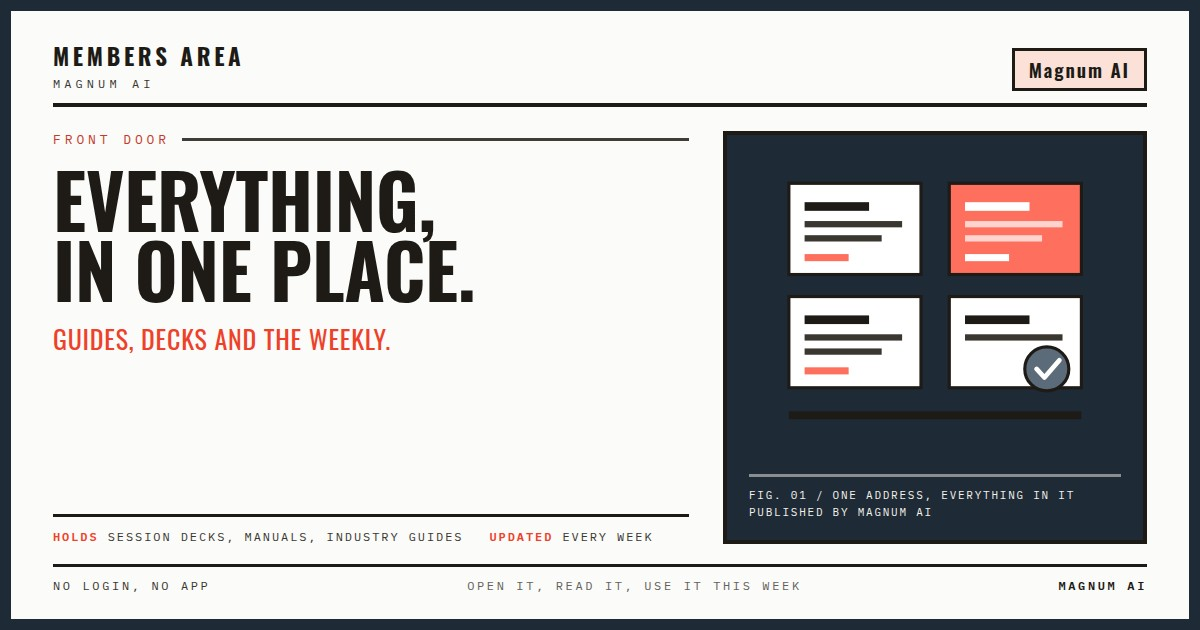
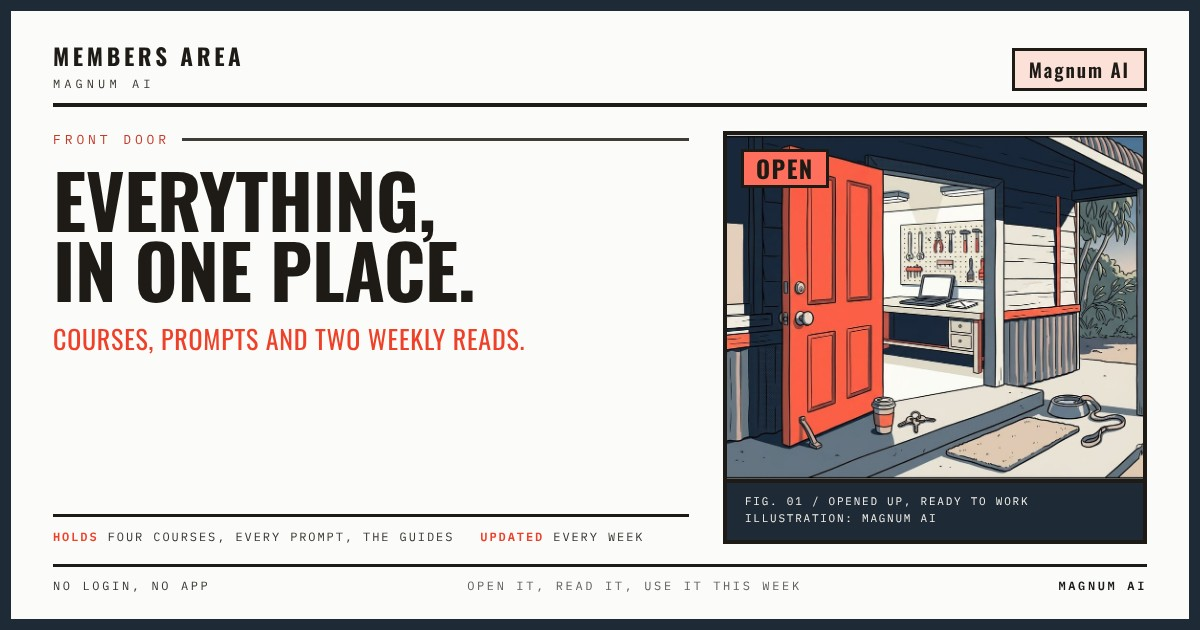
Members area share card carries a still-life cartoon; Field Note cards alternate person and still life
Claude-Session: https://claude.ai/code/session_01F8XX6o5R5CWfwEwwc3uDpR

diff --git a/members-area-thumbnail.html b/members-area-thumbnail.html
@@ -73,6 +73,10 @@ h1{font-family:'Oswald','Arial Narrow','Liberation Sans Narrow',sans-serif;font-
 .tick::after{content:"";width:42%;height:22%;border-left:6px solid var(--paper);border-bottom:6px solid var(--paper);transform:rotate(-45deg) translate(6%,-18%)}
 .plate-cap{font-family:'IBM Plex Mono',monospace;font-size:11px;letter-spacing:.16em;text-transform:uppercase;color:#F4F1EA;border-top:3px solid rgba(244,241,234,.5);padding-top:10px;margin-top:14px;line-height:1.6}
 
+.plate.pic{padding:0;position:relative;justify-content:flex-start}
+.plate.pic .ill{display:block;width:100%;flex:1;min-height:0;object-fit:cover;object-position:center;transform:scale(1.04)}
+.plate.pic .plate-cap{position:relative;z-index:1;background:var(--navy);margin-top:0;padding:10px 18px 12px;border-top:4px solid var(--ink)}
+.numtag{position:absolute;top:14px;left:14px;z-index:1;font-family:'Oswald','Arial Narrow','Liberation Sans Narrow',sans-serif;font-weight:700;font-size:24px;letter-spacing:.06em;text-transform:uppercase;line-height:1;background:var(--coral-bright);color:var(--ink);border:3px solid var(--ink);padding:4px 12px 5px}
 .foot{border-top:3px solid var(--ink);margin-top:20px;padding-top:11px;display:flex;justify-content:space-between;align-items:center;font-family:'IBM Plex Mono',monospace;font-size:12px;letter-spacing:.22em;text-transform:uppercase;color:var(--charcoal)}
 .foot .mid{color:var(--taupe)}
 .foot .pg{color:var(--ink);font-weight:600}
@@ -95,40 +99,17 @@ h1{font-family:'Oswald','Arial Narrow','Liberation Sans Narrow',sans-serif;font-
       <!-- EDIT 3 · theme, headline, kicker -->
       <div class="eyebrow">Front door</div>
       <h1>Everything,<br>in one place.</h1>
-      <div class="kicker">Guides, decks and the weekly.</div>
+      <div class="kicker">Courses, prompts and two weekly reads.</div>
       <div class="slug">
-        <span><b>Holds</b> session decks, manuals, industry guides</span>
+        <span><b>Holds</b> four courses, every prompt, the guides</span>
         <span><b>Updated</b> every week</span>
       </div>
     </div>
 
-    <div class="plate">
-      <div class="doc-wrap">
-<svg viewBox="0 0 420 380" preserveAspectRatio="xMidYMid meet" aria-hidden="true">
-  <rect x="24" y="36" width="168" height="116" fill="#FFFFFF" stroke="#1E1B17" stroke-width="4"/>
-  <rect x="44" y="60" width="82" height="11" fill="#1E1B17"/>
-  <rect x="44" y="84" width="124" height="8" fill="#3A3630"/>
-  <rect x="44" y="102" width="98" height="8" fill="#3A3630"/>
-  <rect x="44" y="126" width="56" height="9" fill="#FF6F5E"/>
-  <rect x="228" y="36" width="168" height="116" fill="#FF6F5E" stroke="#1E1B17" stroke-width="4"/>
-  <rect x="248" y="60" width="82" height="11" fill="#FFFFFF"/>
-  <rect x="248" y="84" width="124" height="8" fill="#FFFFFF" opacity=".7"/>
-  <rect x="248" y="102" width="98" height="8" fill="#FFFFFF" opacity=".7"/>
-  <rect x="248" y="126" width="56" height="9" fill="#FFFFFF"/>
-  <rect x="24" y="180" width="168" height="116" fill="#FFFFFF" stroke="#1E1B17" stroke-width="4"/>
-  <rect x="44" y="204" width="82" height="11" fill="#1E1B17"/>
-  <rect x="44" y="228" width="124" height="8" fill="#3A3630"/>
-  <rect x="44" y="246" width="98" height="8" fill="#3A3630"/>
-  <rect x="44" y="270" width="56" height="9" fill="#FF6F5E"/>
-  <rect x="228" y="180" width="168" height="116" fill="#FFFFFF" stroke="#1E1B17" stroke-width="4"/>
-  <rect x="248" y="204" width="82" height="11" fill="#1E1B17"/>
-  <rect x="248" y="228" width="124" height="8" fill="#3A3630"/>
-  <circle cx="352" cy="272" r="28" fill="#5B6B7A" stroke="#1E1B17" stroke-width="4"/>
-  <path d="M339 272l10 11 19-22" fill="none" stroke="#FFFFFF" stroke-width="6" stroke-linecap="round" stroke-linejoin="round"/>
-  <rect x="24" y="326" width="372" height="10" fill="#1E1B17"/>
-</svg>
-      </div>
-      <div class="plate-cap">Fig. 01 / One address, everything in it<br>Published by Magnum AI</div>
+    <div class="plate pic">
+      <img class="ill" src="assets/illustrations/members-area.jpg" alt="">
+      <div class="numtag">Open</div>
+      <div class="plate-cap">Fig. 01 / Opened up, ready to work<br>Illustration: Magnum AI</div>
     </div>
   </div>
 

diff --git a/index.html b/index.html
@@ -16,14 +16,14 @@
 <meta property="og:title" content="Magnum AI · Members Area">
 <meta property="og:description" content="Four short courses, the prompts, the manuals and two weekly reads.">
 <meta property="og:url" content="https://webes77.github.io/magnum-guides/">
-<meta property="og:image" content="https://webes77.github.io/magnum-guides/assets/thumbnails/members-area.jpg">
+<meta property="og:image" content="https://webes77.github.io/magnum-guides/assets/thumbnails/members-area.jpg?v=2">
 <meta property="og:image:width" content="1200">
 <meta property="og:image:height" content="630">
 <meta property="og:image:alt" content="The Magnum AI members area, guides, decks and the weekly newsletter in one place">
 <meta name="twitter:card" content="summary_large_image">
 <meta name="twitter:title" content="Magnum AI · Members Area">
 <meta name="twitter:description" content="Four short courses, the prompts, the manuals and two weekly reads.">
-<meta name="twitter:image" content="https://webes77.github.io/magnum-guides/assets/thumbnails/members-area.jpg">
+<meta name="twitter:image" content="https://webes77.github.io/magnum-guides/assets/thumbnails/members-area.jpg?v=2">
 <meta name="theme-color" content="#1E1B17">
 
 <link rel="preconnect" href="https://fonts.googleapis.com">

diff --git a/notes/field-note-prompt.md b/notes/field-note-prompt.md
@@ -178,7 +178,7 @@ Delete every EDIT comment, including every EDIT · VOICE comment, once its block
 
 Step 6, the card. Copy templates/field-note-thumbnail.html to newsletter/field-note-NN-thumbnail.html and work through the bits marked EDIT: the issue number in the tag and the Fig. line, the theme, the headline, the kicker, the footer and the picture. The card carries the page's headline, word for word, and the kicker is What you do in six words or fewer, like "Attach the bill. Paste one prompt." newsletter/field-note-09-thumbnail.html is the reference.
 
-The card carries one cartoon, made for this issue. James locked the members area's picture style on 15 Oct and asked for every Field Note card to carry it. The picture goes on the card only, never on the page, so the one-card shape in FORMAT is unchanged. Read notes/image-style.md in full first. Write one scene line for this issue's job: a small business owner in an everyday Australian workplace, in the middle of the moment the prompt fixes, with one human detail and coral on one thing. Then add the style block from that file, word for word. Make it with the Higgsfield connector: generate_image with model nano_banana_2_1, aspect_ratio 4:3, resolution 1k, then jobs_wait until it completes. It costs about two credits.
+The card carries one cartoon, made for this issue. James locked the members area's picture style on 15 Oct and asked for every Field Note card to carry it. The picture goes on the card only, never on the page, so the one-card shape in FORMAT is unchanged. Read notes/image-style.md in full first. Write one scene line for this issue's job, in an everyday Australian workplace, at the moment the prompt fixes, with one human detail and coral on one thing. It does not have to show a person. James said on 15 Oct that the pictures should not be a person every time, so look at the previous issue's picture in assets/illustrations/ first: if it shows a person, make this one a still life, the objects of the job with the human detail carried by what someone left behind (the bill on the bench beside a cold coffee, the phone face down after the angry email). Say "no people" in the scene line when you do. Then add the style block from that file, word for word. Make it with the Higgsfield connector: generate_image with model nano_banana_2_1, aspect_ratio 4:3, resolution 1k, then jobs_wait until it completes. It costs about two credits.
 
 Bring it into the repo as assets/illustrations/field-note-NN.jpg, about 1000 pixels wide. Try curl on the result URL first. If that host is refused, use the Higgsfield sandbox: in sandbox_exec, curl the result URL, convert it (convert in.png -resize 1000x -strip -interlace JPEG -quality 80 field-note-NN.jpg), print its size in bytes, and pass that path in image_paths. The file arrives in this session's tool-results folder as mcp-Higgsfield-blob-*.jpg, byte for byte. Find it by the exact size the sandbox printed and copy it into place. Look at the picture before you use it. Make it once more if it carries readable words, a real brand or a left-hand-drive vehicle, or if it does not show the issue's job.
 

diff --git a/CLAUDE.md b/CLAUDE.md
@@ -2857,6 +2857,17 @@ someone is doing a job, and with his face on them they read as things he
 did. The scenes with the course cartoons (`ai-foundations.jpg` and the rest)
 stay on the deck covers.
 
+The members area share card (`assets/thumbnails/members-area.jpg`, source
+`members-area-thumbnail.html`) carries a picture now, a still life of the
+coral door propped open with nobody in it, built like the Field Note cards.
+James said the same night that the pictures need not be a person every
+time, so the Wednesday Field Note scheduled task alternates: a still life
+whenever the previous issue's card showed a person. That one sentence in
+Step 6 is the only change; the file and the live task were asserted equal
+at 28,456 characters. The task still has only Google Drive and Microsoft
+365 attached, so until Higgsfield is added in Scheduled its cards use the
+stand-in picture.
+
 The Routines screen is called Scheduled now (James, 15 Oct). Where this file
 says "Routines UI" or "the routine's settings", read Scheduled. Connectors on
 a scheduled task are added there by James; `update_trigger` has no connectors

diff --git a/notes/image-style.md b/notes/image-style.md
@@ -104,6 +104,16 @@ under the masthead, in a `<figure class="ill">` with the credit line, styled by
   glasses, greying moustache, grey t-shirt; a fawn bulldog with a white
   chest blaze, rose ears and the tongue out). Ask for "exactly one dog": the
   first pass drew two.
+- The members area share card (`members-area.jpg`, since 15 Oct, night):
+  a still life, no people. The coral shop door propped open, coffee and keys
+  on the step, a dog bowl and lead by the mat, the workbench lit inside.
+
+Not every picture is a person. James said so on 15 Oct. A still life of the
+job's objects, with the human detail carried by what someone left behind,
+is as much the house style as a scene with people in it. The Field Note
+routine alternates: if last week's card showed a person, this week's is a
+still life. Put "no people" in the scene line when you want none, or the
+model adds someone.
 
 Left alone on purpose. The share cards (`og:image`) keep their titles, because
 WhatsApp shows them. The Field Notes are sent and printed on their own, and a
